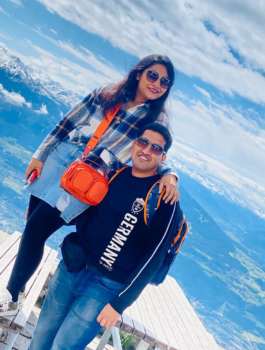
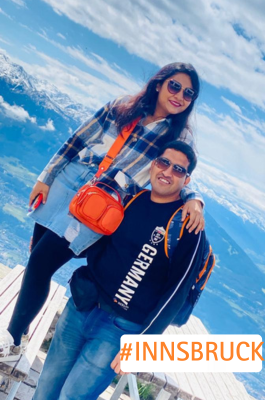
#added pages to Austria experience page

diff --git a/Experience-Austria.html b/Experience-Austria.html
@@ -437,16 +437,16 @@ Standing 3,040 metres above sea level, this 1,300 square metres space is also fa
   
               <!-- swiper slides -->
               <div class="swiper-wrapper">
-                <div class="swiper-slide experience-slide" style="background: url('./assets/images/instagram-bg.svg');">
-                  <img class="profile-photo" src="assets/images/profile-photo.svg" alt="profile-photo">
+                <div class="swiper-slide experience-slide" style="background: url('./assets/images/Hallstatt - 5 fingers - client.png');">
+                  <!-- <img class="profile-photo" src="assets/images/Hallstatt - 5 fingers - client.png" alt="profile-photo"> -->
                 </div>
   
-                <div class="swiper-slide experience-slide" style="background: url('./assets/images/instagram-bg.svg');">
-                  <img class="profile-photo" src="assets/images/profile-photo.svg" alt="profile-photo">
+                <div class="swiper-slide experience-slide" style="background: url('./assets/images/Innsbruck - Nordekette - Client.png');">
+                  <!-- <img class="profile-photo" src="assets/images/Innsbruck - Nordekette - Client.png" alt="profile-photo"> -->
                 </div>
   
-                <div class="swiper-slide experience-slide" style="background: url('./assets/images/instagram-bg.svg');">
-                   <img class="profile-photo" src="assets/images/profile-photo.svg" alt="profile-photo">
+                <div class="swiper-slide experience-slide" style="background: url('./assets/images/Vienna - Cathedral - Client.png');">
+                   <!-- <img class="profile-photo" src="assets/images/Vienna - Cathedral - Client.png" alt="profile-photo"> -->
                 </div>
               </div>
               <!-- !swiper slides -->
